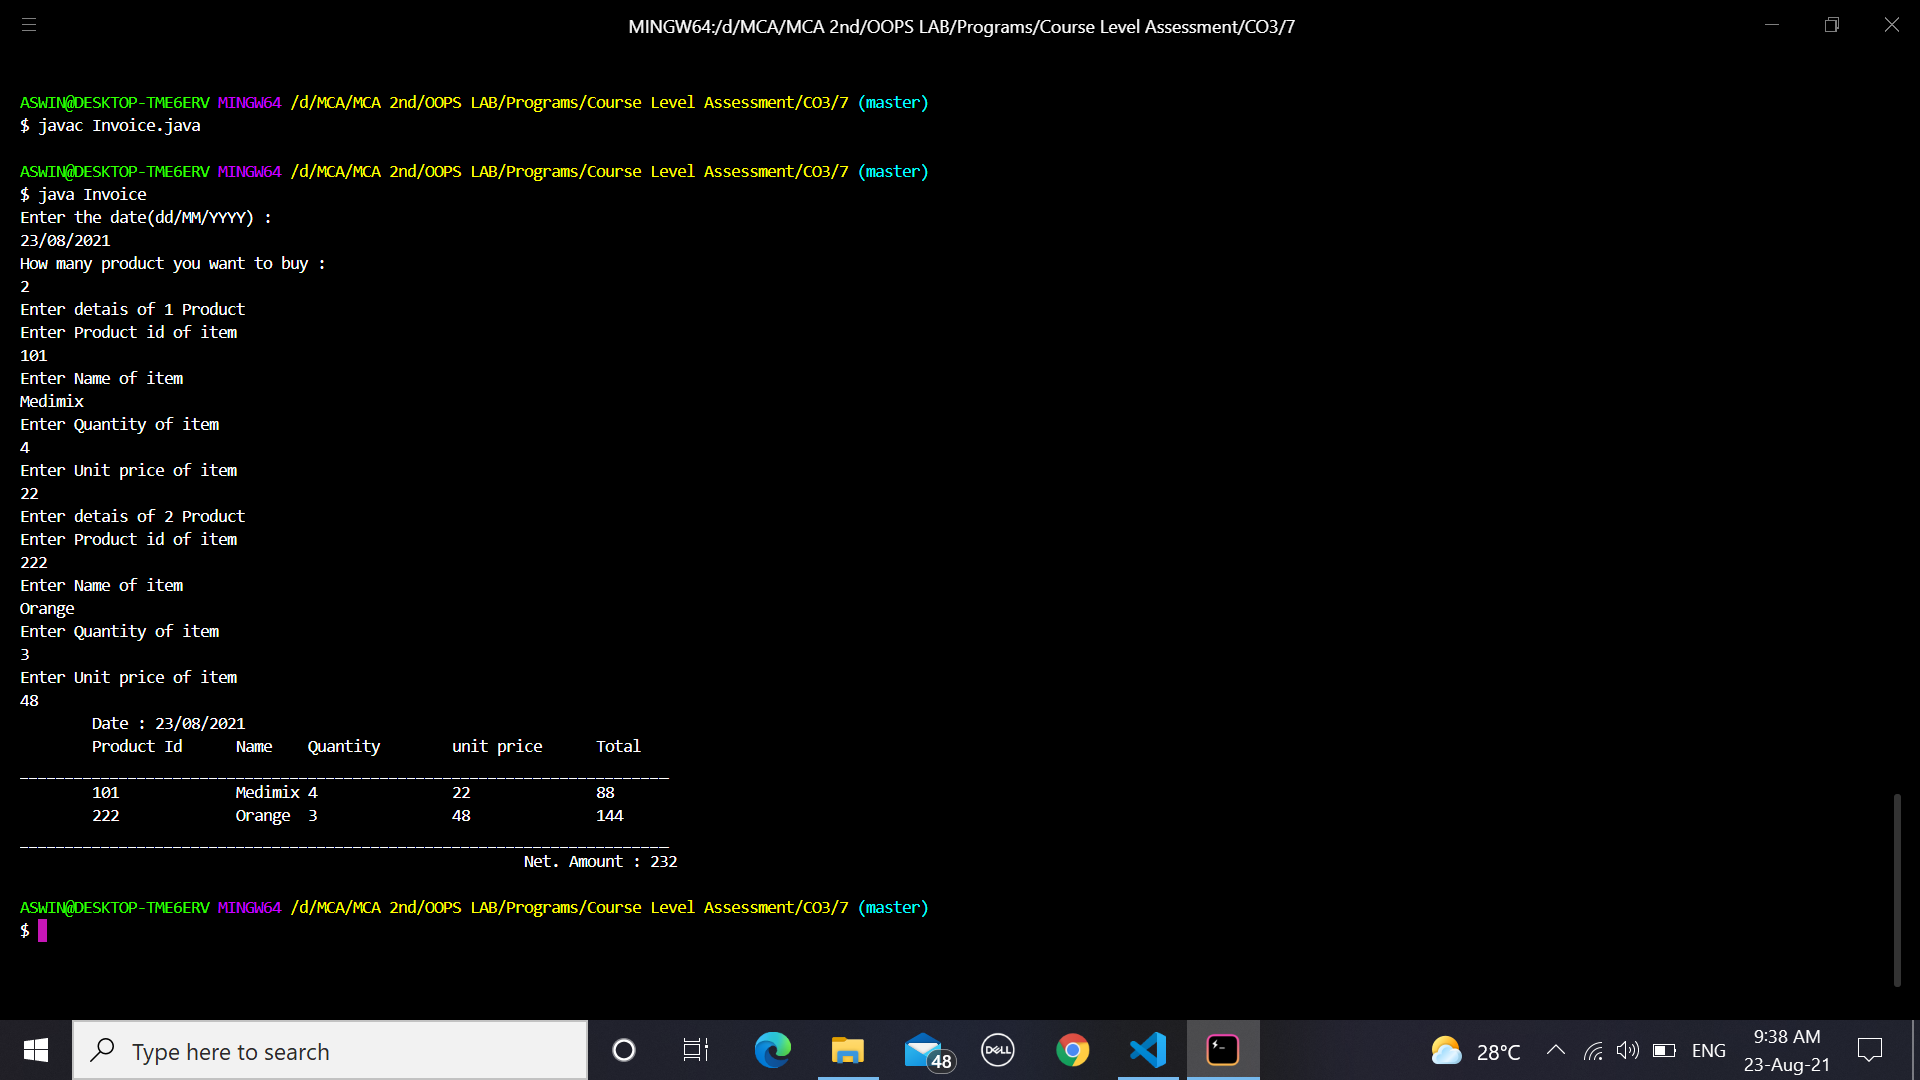
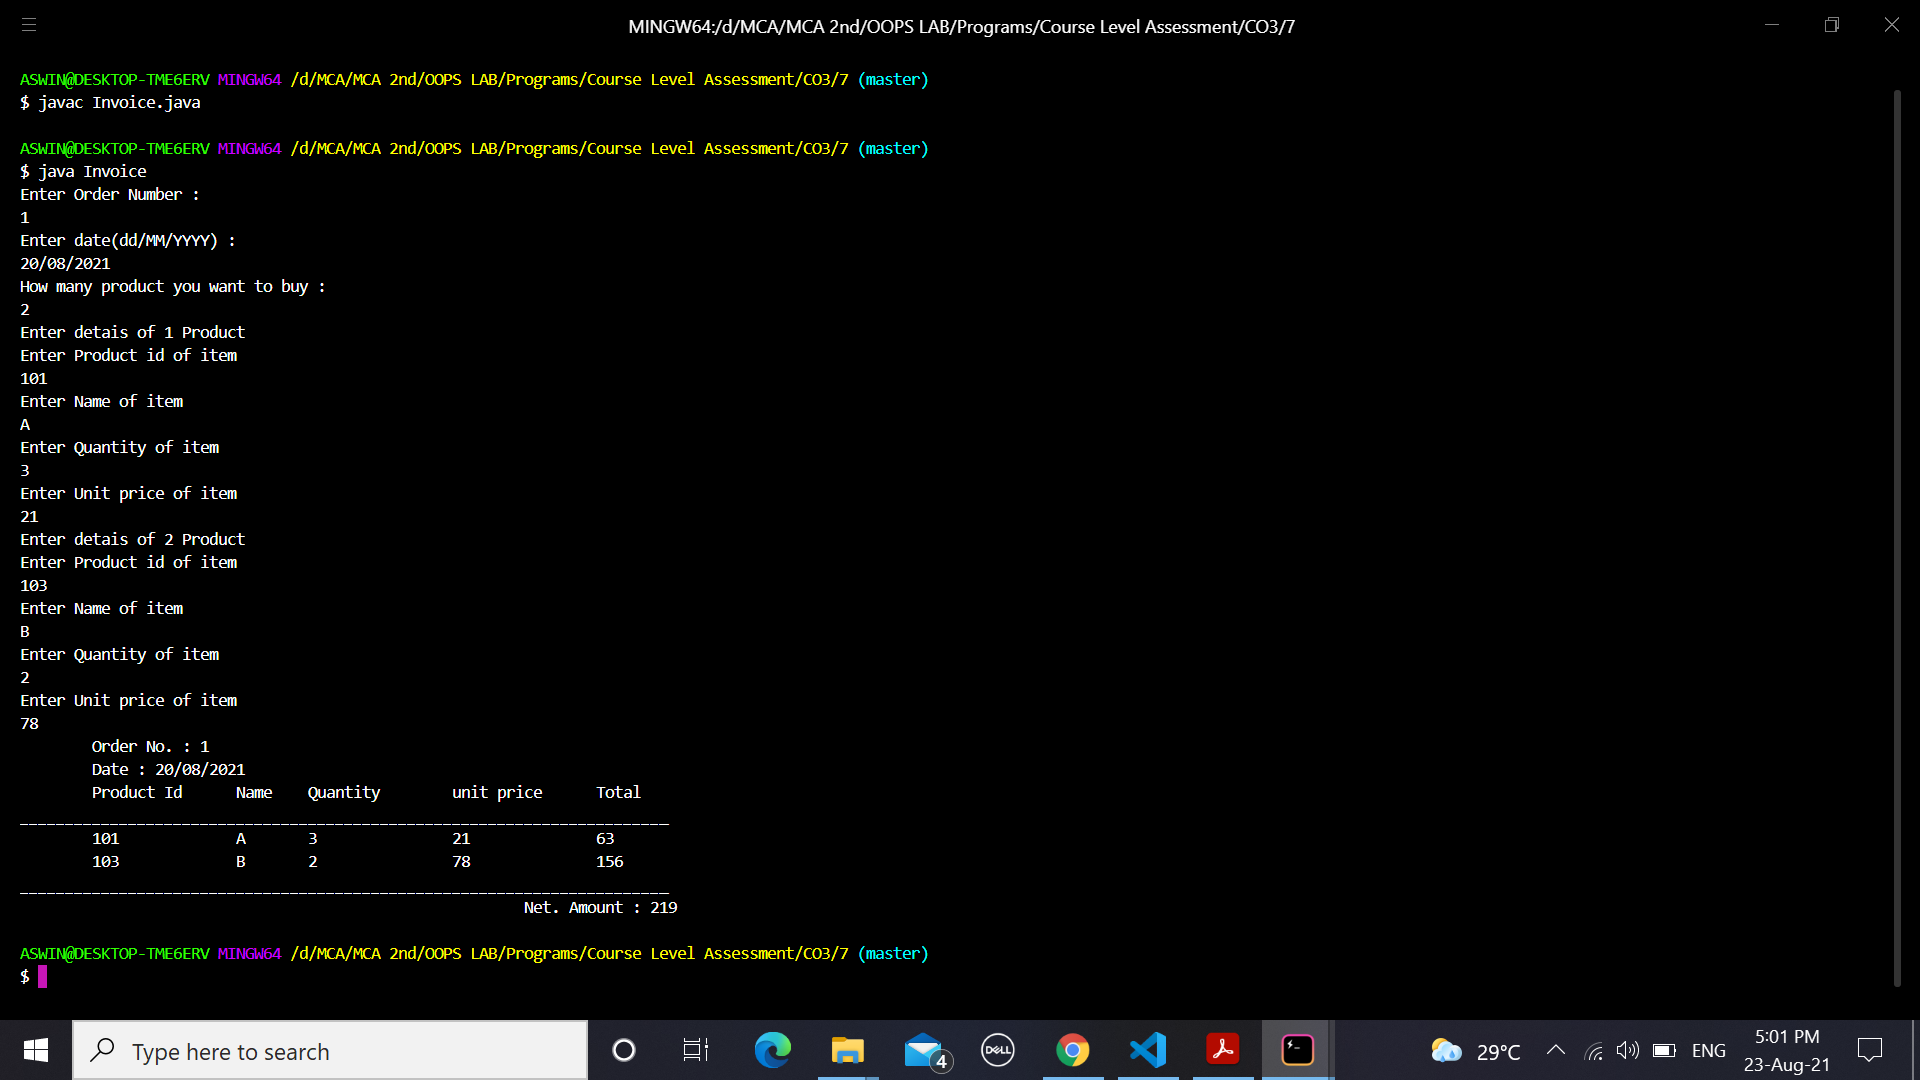
Co3 7 Modification

diff --git a/Course Level Assessment/CO3/7/Invoice.java b/Course Level Assessment/CO3/7/Invoice.java
@@ -25,10 +25,12 @@ class Invoice implements Bill{
 
     public static void main(String[] args) {
         Scanner sc=new Scanner(System.in);
-        int n;
+        int n,Ono;
         int netA=0;
         String ddate;
-        System.out.println("Enter the date(dd/MM/YYYY) : ");
+        System.out.println("Enter Order Number : ");
+        Ono=Integer.parseInt(sc.nextLine());
+        System.out.println("Enter date(dd/MM/YYYY) : ");
         ddate=sc.nextLine();
 
         System.out.println("How many product you want to buy : ");
@@ -43,6 +45,7 @@ class Invoice implements Bill{
             System.out.println("Enter detais of " + (i + 1) + " Product");
             arr[i].calculate();
         }
+        System.out.println("\tOrder No. : "+Ono);
         System.out.println("\tDate : "+ddate);
         System.out.println("\tProduct Id"+"\tName"+"\tQuantity"+"\tunit price"+"\tTotal");
         System.out.println("________________________________________________________________________");
